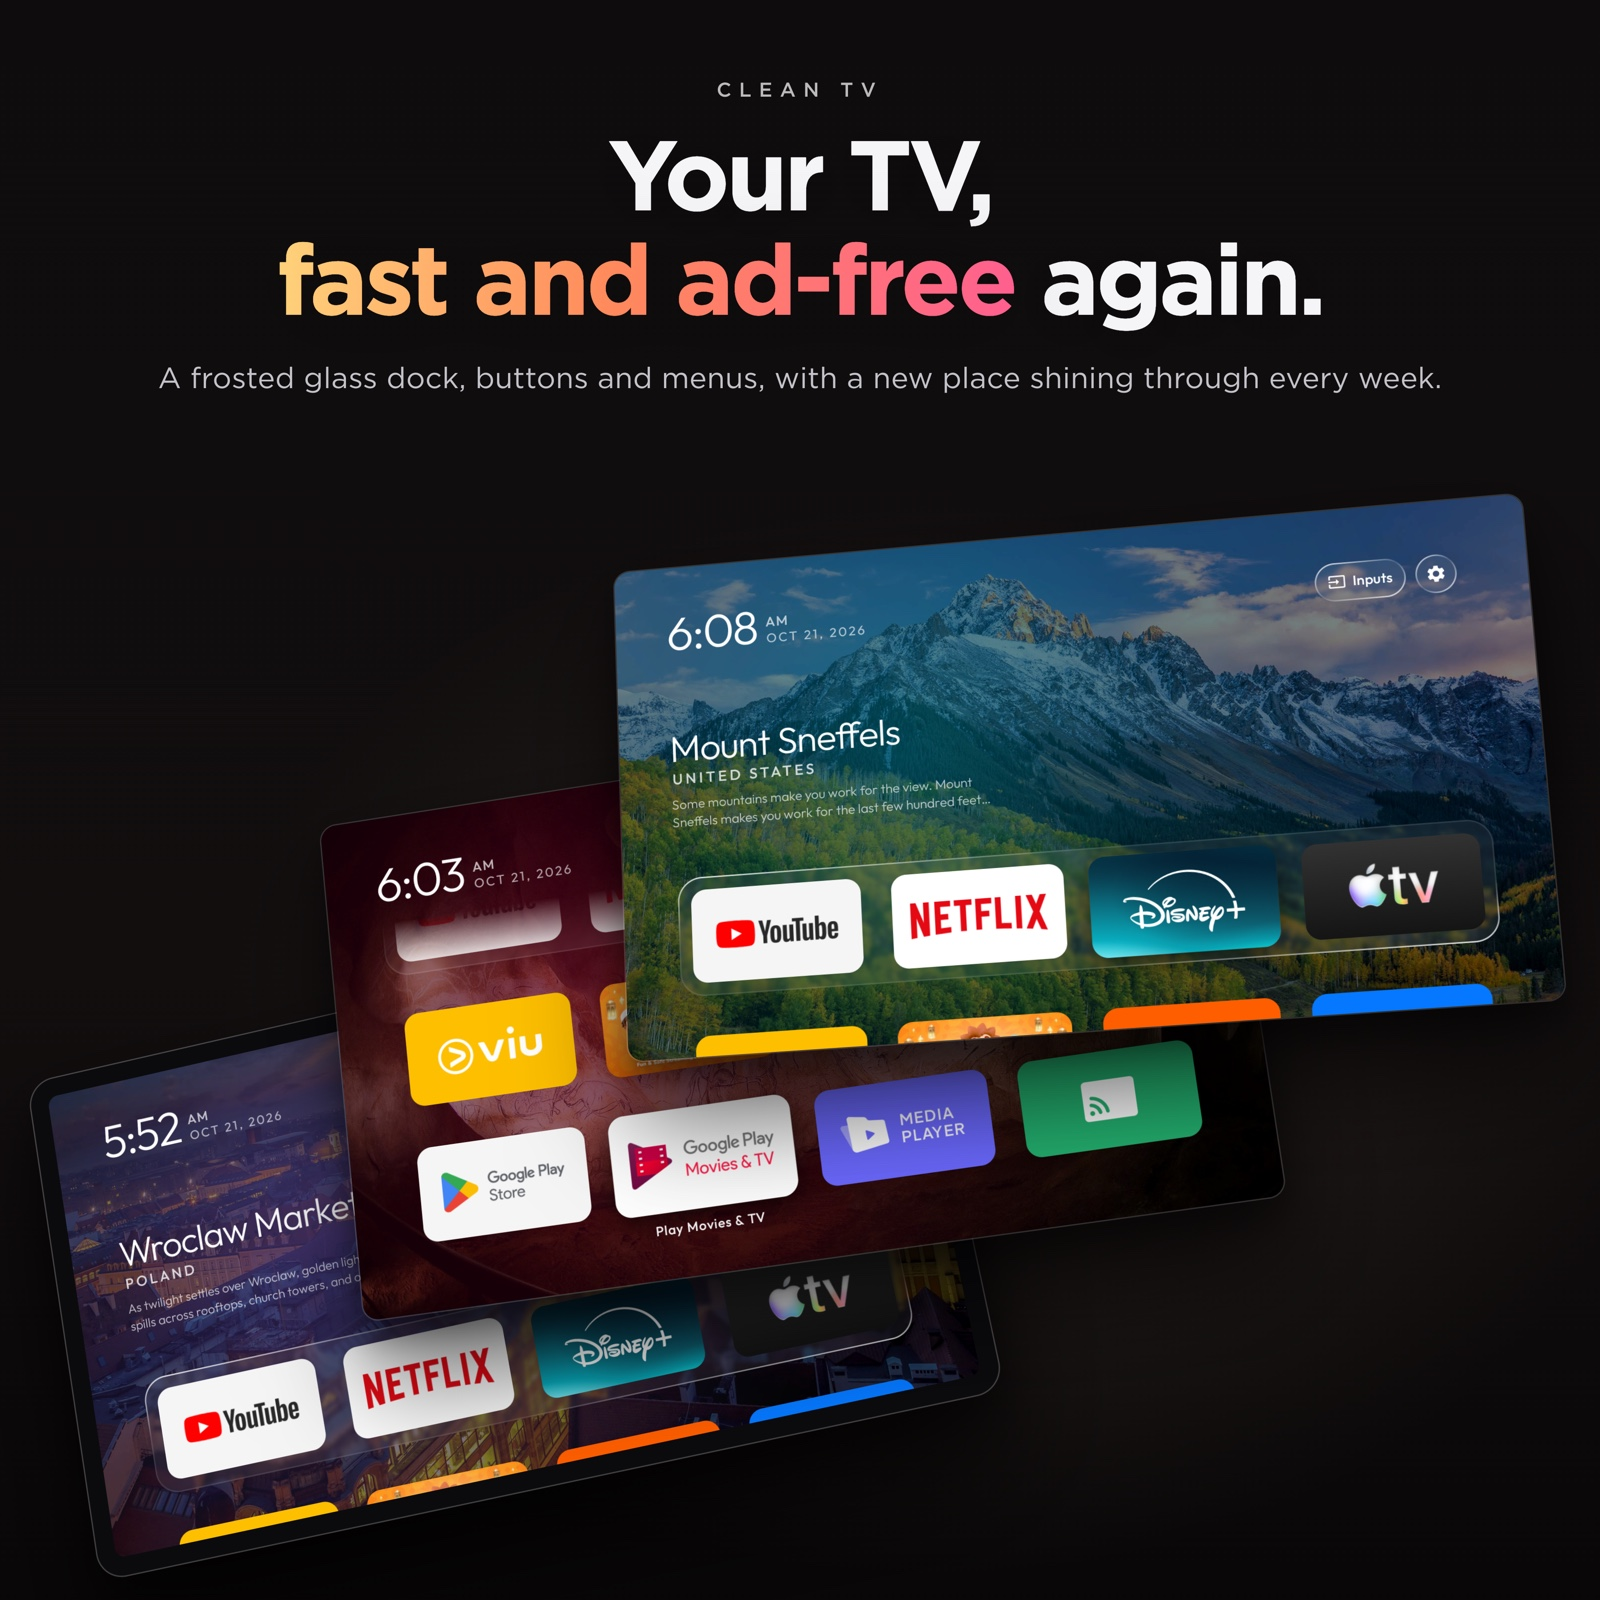
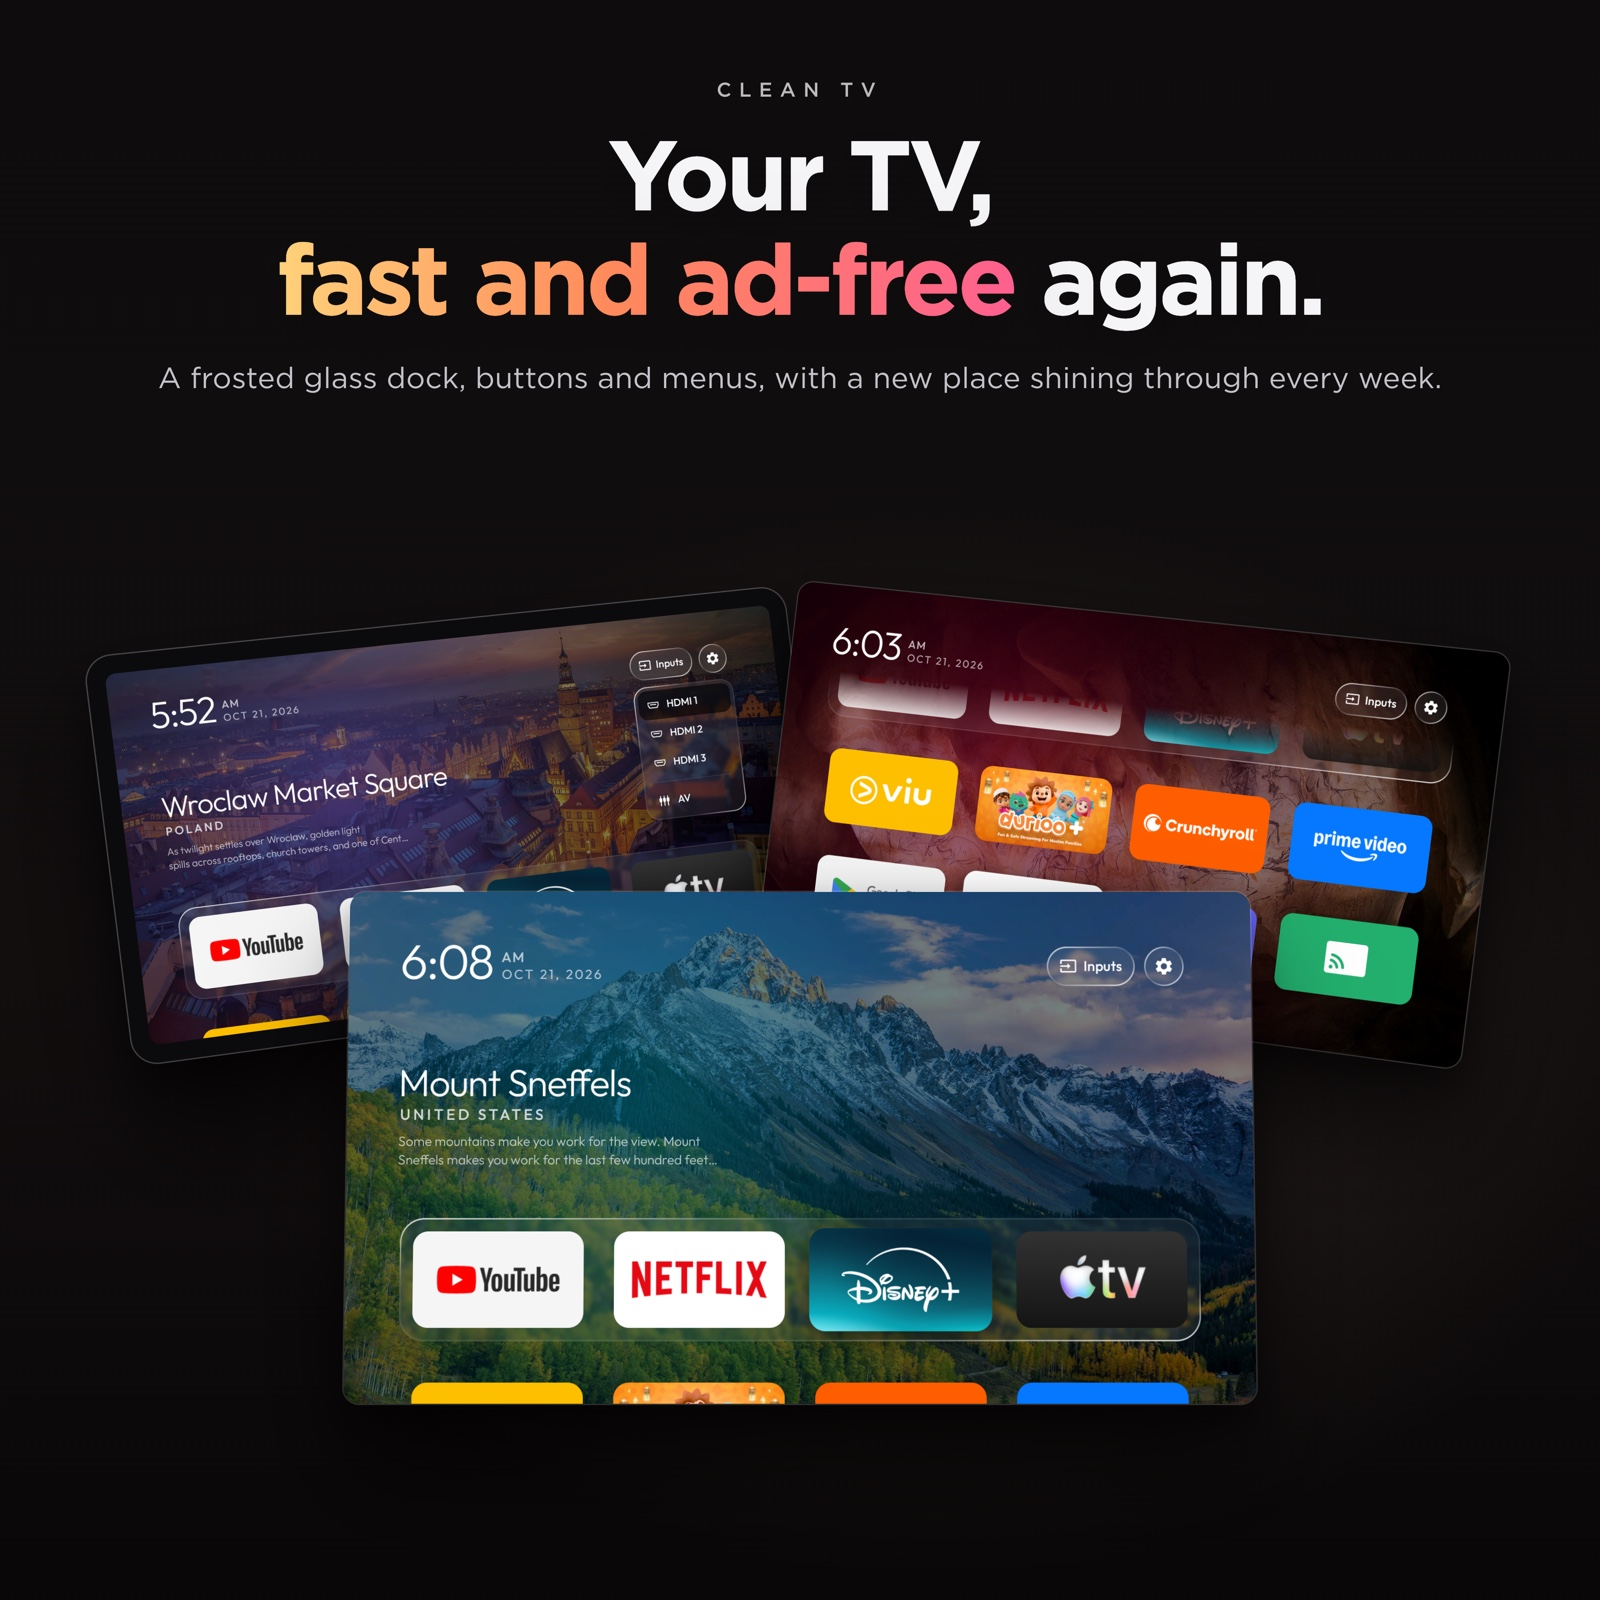
First promo picture: left, right and centre, evenly padded

diff --git a/README.md b/README.md
@@ -9,7 +9,7 @@ and swap the ad-filled home screen for a light Apple TV-style launcher — and a
 new set of places every week.
 
 <p>
-  <img src="docs/screenshots/promo-1-home.jpg" width="32%" alt="Your TV, fast and ad-free again: the TV at the back, its screens stacked out in front, Home over Mount Sneffels nearest">
+  <img src="docs/screenshots/promo-1-home.jpg" width="32%" alt="Your TV, fast and ad-free again: the TV behind on the left, the app grid behind on the right, Home over Mount Sneffels in front">
   <img src="docs/screenshots/promo-2-clock.jpg" width="32%" alt="Ads off, time on: the clock screensaver">
   <img src="docs/screenshots/promo-3-features.jpg" width="32%" alt="Looks like Apple, runs on Android: glass, Inputs, a place a week, your own app order, no ads">
 </p>
